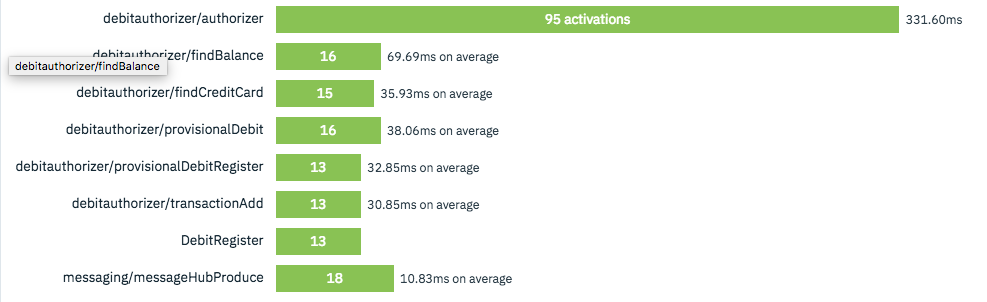
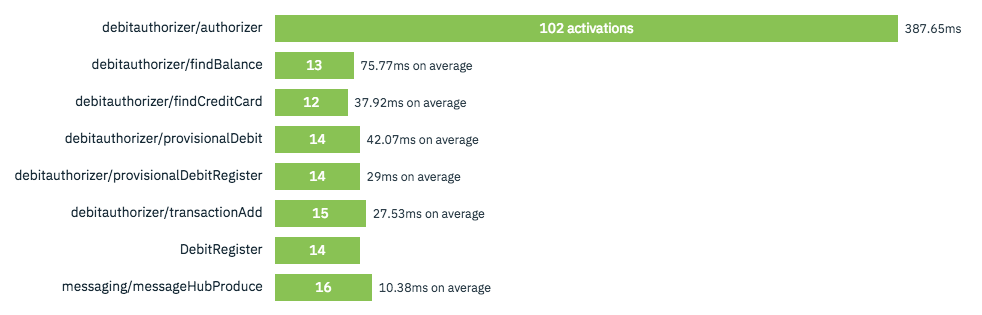
novas evidencias

diff --git a/index.html b/index.html
@@ -40,7 +40,7 @@
 					# Disclaimer
 
 					* Esta é uma apresentação pessoal, portanto não representa a visão institucional da Cresol Confederação
-					* Todas as informações aqui apresentadas são de cunho fictício e não expõe dados sensíveis da instituição e do sistema financeiro
+					* Todas as informações aqui apresentadas são fictícias e não expõem dados sensíveis da instituição e do sistema financeiro
 				</section>
 				<section data-markdown>
 					# Objetivo
@@ -124,11 +124,25 @@
 					<section data-markdown>
 						## Fatos sobre a prova de conceito
 
-						* Média de tempo de +4s
+						* Média de tempo de ~3s
 						* 180ms de latência
 						* 75% do tempo é o orquestrador
 						* Funções em Java® rodaram com boa performance
 							* Menos de 100ms
+					</section>
+					<section data-markdown>
+						## Funções em Java®
+
+						![](images/funcoes_java_1.png)
+						![](images/funcoes_java_2.png)
+						![](images/funcoes_java_3.png)						
+					</section>
+					<section data-markdown>
+						## Como viabilizar?
+
+						* Verificar o overhead do HTTP
+						* Reduzir a latência
+						* Orquetrador mais eficiente
 					</section>
 				</section>
 				<section data-markdown data-background="#FFF">
